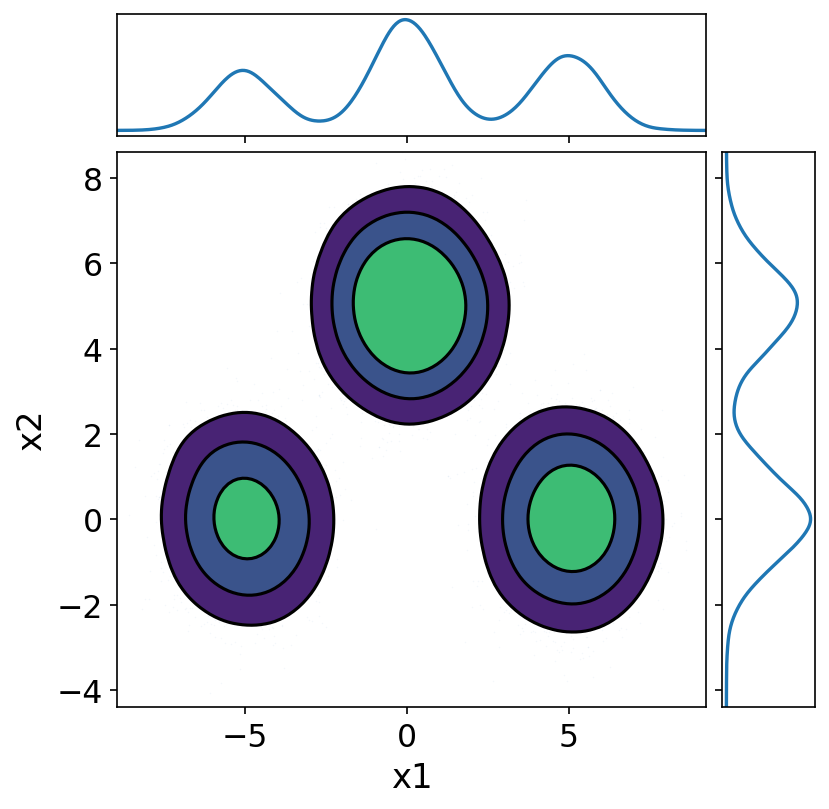
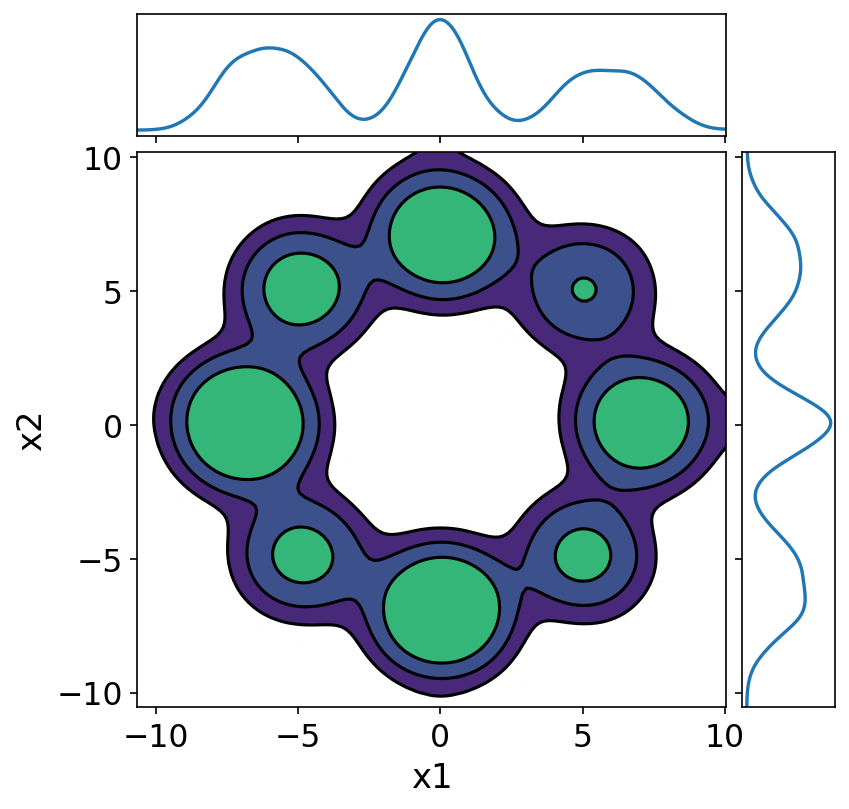
Converted to 8-component GM model

diff --git a/gaussian_mix/src/model.py b/gaussian_mix/src/model.py
@@ -4,6 +4,11 @@
 The target distribution is a mixture of K isotropic Gaussians in 2D:
     p(x) = sum_k w_k * N(x | mu_k, sigma_k^2 * I)
 
+Default configuration: 8 components arranged on a regular octagon (radius 7),
+with alternating heavy (w=0.175) and light (w=0.075) weights. Nearest-neighbor
+distance is ~5.4σ, making inter-mode transitions rare enough to expose
+mode-missing and weight-estimation failures simultaneously.
+
 A NumPyro model is used to define the joint, and numpyro.infer.util.log_density
 is used to extract a BlackJAX-compatible log-density function.
 """
@@ -21,14 +26,14 @@ from numpyro.infer.util import log_density
 OUTPUT_DIR = Path(__file__).parent.parent / "output"
 
 
-# Default mixture: 3 well-separated modes of equal weight
-DEFAULT_MEANS = jnp.array([
-    [-5.0,  0.0],
-    [ 5.0,  0.0],
-    [ 0.0,  5.0],
-])
-DEFAULT_SCALES = jnp.array([1.0, 1.0, 1.0])
-DEFAULT_WEIGHTS = jnp.array([1/3, 1/3, 1/3])
+# Default mixture: 8 components on a regular octagon of radius 7.
+# Modes at angles k*pi/4 for k=0..7; alternating heavy/light weights.
+# Nearest-neighbor distance = 2 * 7 * sin(pi/8) ≈ 5.36 (in units of sigma=1).
+_R = 7.0
+_ANGLES = jnp.array([k * jnp.pi / 4 for k in range(8)])
+DEFAULT_MEANS = jnp.stack([_R * jnp.cos(_ANGLES), _R * jnp.sin(_ANGLES)], axis=-1)
+DEFAULT_SCALES = jnp.ones(8)
+DEFAULT_WEIGHTS = jnp.array([0.175, 0.075, 0.175, 0.075, 0.175, 0.075, 0.175, 0.075])
 
 
 def gaussian_mixture(means=DEFAULT_MEANS, scales=DEFAULT_SCALES, weights=DEFAULT_WEIGHTS):
@@ -75,7 +80,7 @@ def plot_model(
     means=DEFAULT_MEANS,
     scales=DEFAULT_SCALES,
     weights=DEFAULT_WEIGHTS,
-    grid_range=(-8, 8),
+    grid_range=(-10, 10),
     resolution=200,
     filename="gaussian_mixture.png",
 ):

diff --git a/gaussian_mix/tests/test_model.py b/gaussian_mix/tests/test_model.py
@@ -24,7 +24,7 @@ def test_default_weights_sum_to_one():
 
 
 def test_default_means_shape():
-    assert DEFAULT_MEANS.shape == (3, 2)
+    assert DEFAULT_MEANS.shape == (8, 2)
 
 
 def test_default_scales_positive():
@@ -68,10 +68,13 @@ def test_custom_weights():
     assert log_p_mode0 > log_p_mode1
 
 
-def test_equal_density_at_symmetric_modes():
-    """With equal weights, all mode centers should have the same log density."""
+def test_density_at_modes_matches_weights():
+    """Heavy modes (even indices) should have equal log density to each other,
+    light modes (odd indices) likewise, and heavy > light."""
     log_density_fn = make_log_density()
     log_ps = [float(log_density_fn(mean)) for mean in DEFAULT_MEANS]
-    assert np.allclose(log_ps, log_ps[0], atol=1e-5), (
-        f"Expected equal density at all modes, got {log_ps}"
-    )
+    heavy = [log_ps[k] for k in range(0, 8, 2)]
+    light = [log_ps[k] for k in range(1, 8, 2)]
+    assert np.allclose(heavy, heavy[0], atol=1e-5), f"Heavy modes not equal: {heavy}"
+    assert np.allclose(light, light[0], atol=1e-5), f"Light modes not equal: {light}"
+    assert heavy[0] > light[0], "Heavy modes should have higher density than light modes"

diff --git a/gaussian_mix/scripts/nuts.py b/gaussian_mix/scripts/nuts.py
@@ -18,7 +18,7 @@ import jax.numpy as jnp
 import matplotlib.pyplot as plt
 import numpy as np
 
-from model import make_log_density, plot_model, OUTPUT_DIR, DEFAULT_MEANS
+from model import make_log_density, plot_model, OUTPUT_DIR, DEFAULT_MEANS, DEFAULT_WEIGHTS
 
 NUTS_OUTPUT_DIR = OUTPUT_DIR / "nuts"
 
@@ -124,9 +124,10 @@ def main():
     print(f"  Mean tree depth (steps):    {num_integration_steps.mean():.1f}  (max observed: {int(max_steps)})")
     print(f"  Tree depth saturation:      {saturation_frac:.1%}")
     print()
-    print(f"  Mode weight recovery (true = {1/num_modes:.3f} each):")
-    for k, w in enumerate(mode_weights):
-        print(f"    Mode {k}: {w:.3f}")
+    true_weights = np.array(DEFAULT_WEIGHTS)
+    print(f"  Mode weight recovery (empirical vs true):")
+    for k, (w, tw) in enumerate(zip(mode_weights, true_weights)):
+        print(f"    Mode {k}: {w:.3f}  (true: {tw:.3f})")
     print()
     print(f"  Inter-mode transitions per chain: {transitions.tolist()}")
     if stuck_chains:
@@ -157,7 +158,7 @@ def main():
         "max_integration_steps": int(max_steps),
         "tree_depth_saturation": float(saturation_frac),
         "mode_weights": mode_weights.tolist(),
-        "true_mode_weight": 1 / num_modes,
+        "true_mode_weights": np.array(DEFAULT_WEIGHTS).tolist(),
         "inter_mode_transitions": transitions.tolist(),
         "stuck_chains": stuck_chains,
         "bulk_ess_per_grad_eval": float(ess_per_grad),